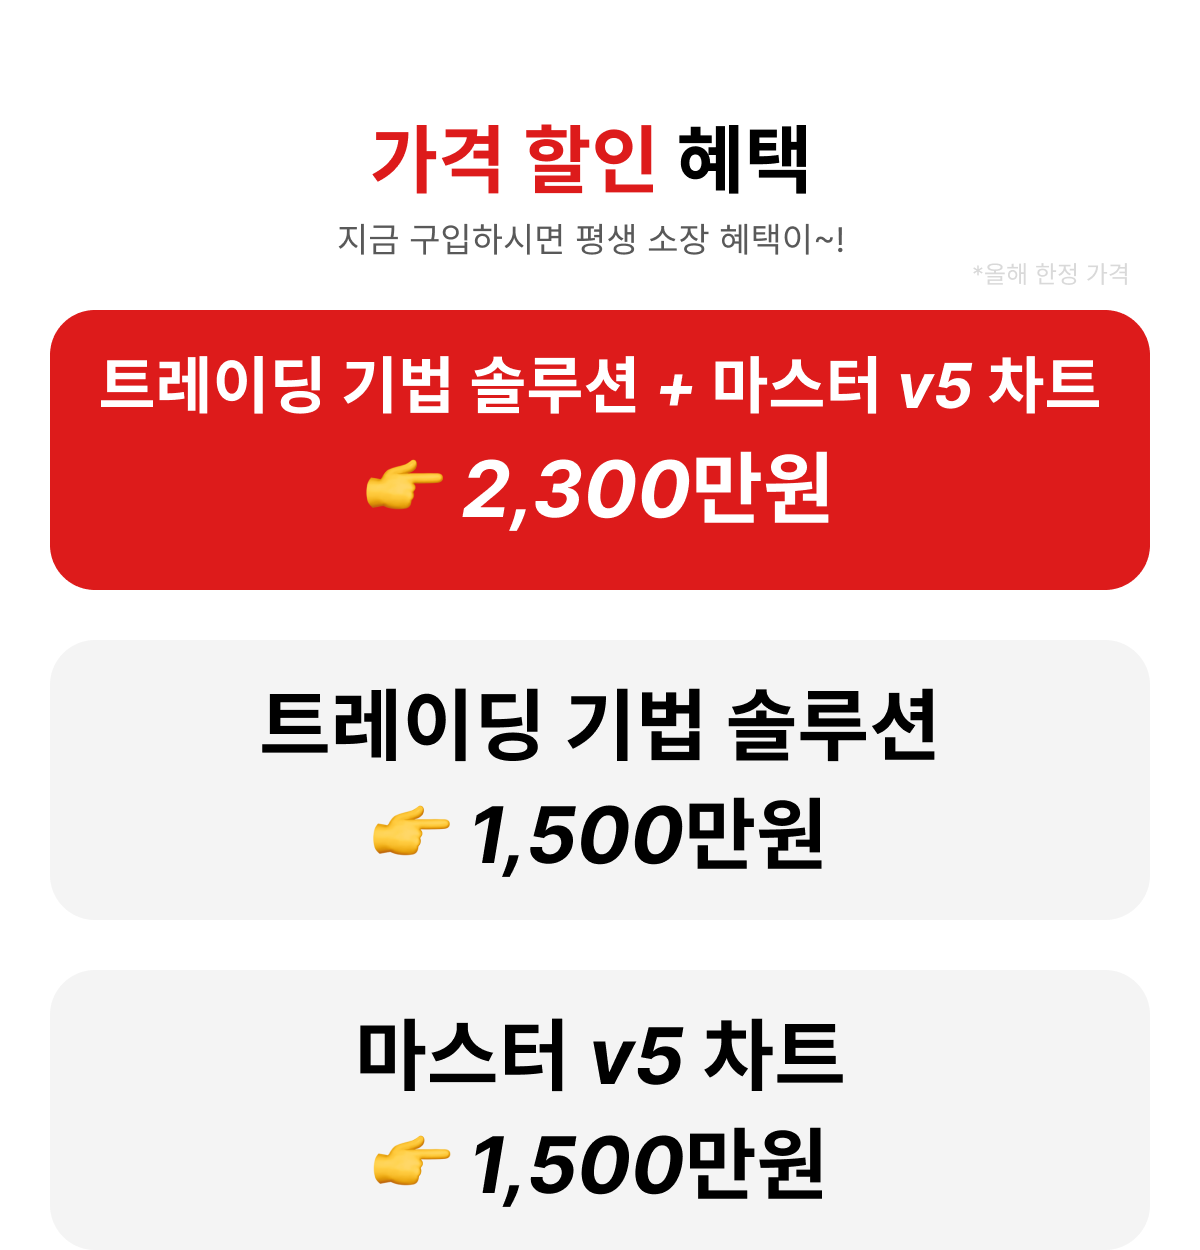
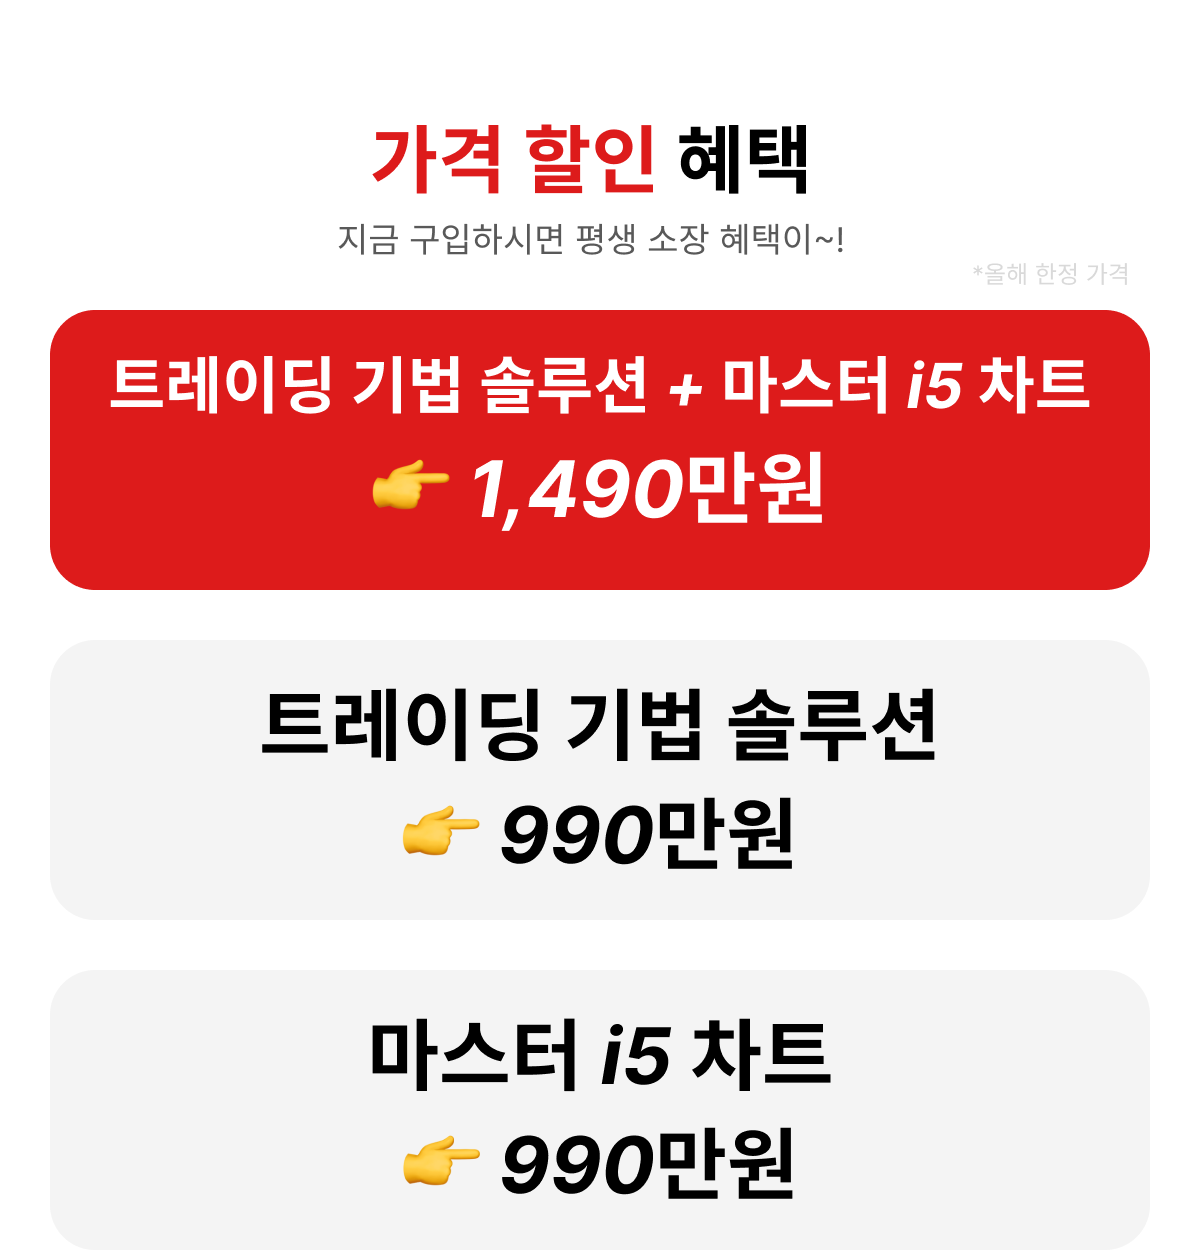
rainbow v1.9

diff --git a/index.html b/index.html
@@ -17,7 +17,7 @@
     </div>
     <ul class="nav-nav">
       <a href="#rainbow" />
-      <li>마스터v5</li>
+      <li>마스터 i5</li>
       </a>
       <a href="#price">
         <li>상품가격</li>
